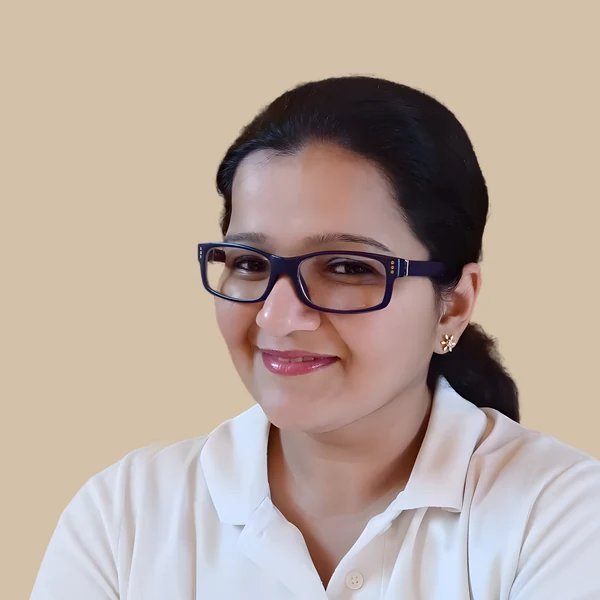
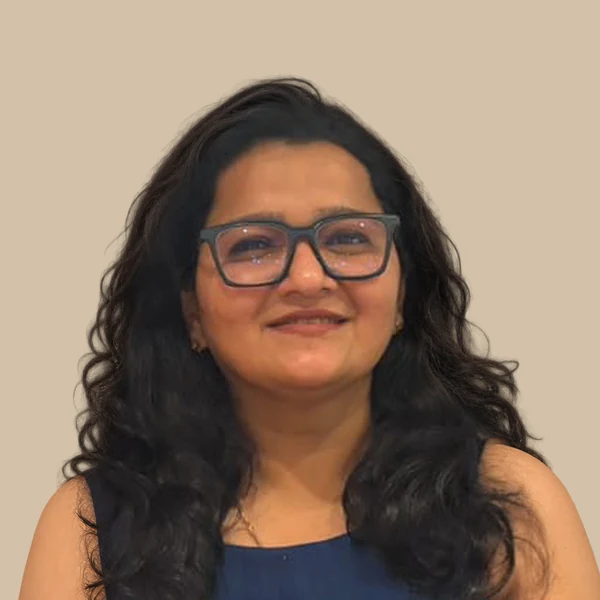
Update Dhwani and Ruhaan team portraits

diff --git a/tools/team/photos.py b/tools/team/photos.py
@@ -36,7 +36,7 @@ CROPS = []
 # Fine-tuning per person if the silhouette misreads (hair volume etc.): scale multiplier, x/y nudge (share of frame)
 TUNE = {"rahul-hingmire": (0.92, 0.0, 0.0),
         "sakshay-upadhyay": (1.12, 0.0, 0.0), "karan-shah": (1.08, 0.0, 0.0), "mehak-gupta": (0.78, 0.0, 0.0),
-        "dhwani-joshi": (2.4, 0.09, 0.0), "dale-galbano": (1.15, 0.0, 0.0), "sneha-lakra": (1.1, 0.0, 0.0),
+        "dhwani-joshi": (1.2089, -0.0282, 0.0029), "dale-galbano": (1.15, 0.0, 0.0), "sneha-lakra": (1.1, 0.0, 0.0),
         "siddarth-menon": (1.08, 0.0, 0.0),
         "s-robin": (1.0, -0.011, 0.001), "sandeep-agrawal": (1.055, 0.0, 0.012),
         "ruhaan-gupta": (1.0167, 0.0, -0.005)}
